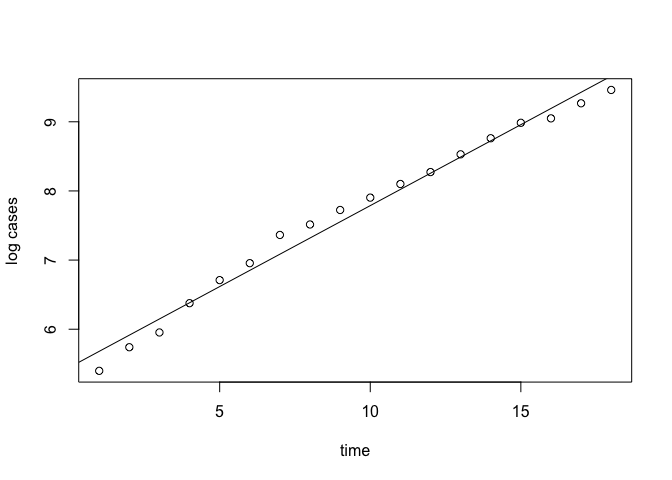
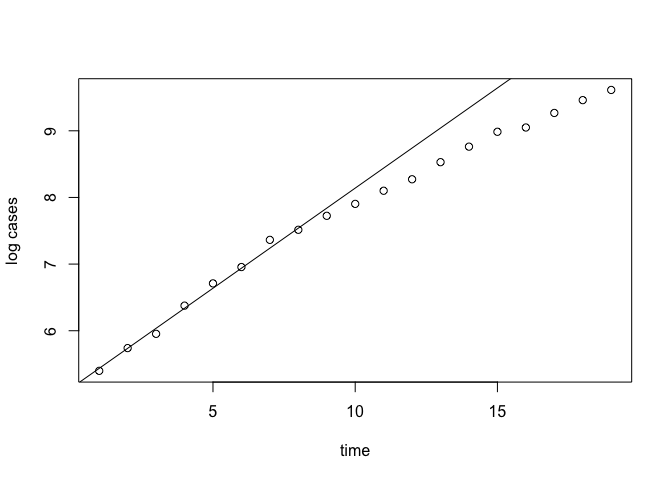
Add home page, navigation and theme

diff --git a/draft_analysis_Italy.md b/draft_analysis_Italy.md
@@ -6,9 +6,9 @@ PG
 ## The COVID dataset
 
 The present analysis used the dataset on COVID19 updated in
-<https://github.com/pcm-dpc/COVID-19>. We used a SEIR model to estimate
-the prediction of this epidemic in Italy. We estimated the R0 parameter
-by means of a simple linear regression ad in
+<https://github.com/pcm-dpc/COVID-19>. We used a SEIR model to predict
+the trend of the actual COVID19 epidemic in Italy. We estimated the R0
+parameter by means of a linear regression model as reported in
 <https://kingaa.github.io/clim-dis/parest/parest.html>
 
 ``` r
@@ -21,11 +21,12 @@ plot(dat_csv$data,dat_csv$totale_attualmente_positivi,ylab="Total Covid cases",x
 mean(diff(log(dat_csv$totale_attualmente_positivi)))
 ```
 
-    ## [1] 0.2389459
+    ## [1] 0.2341466
 
-The grow is exponential (rate of increase of about 25%). We estimate the
-R0 parameter by means of a linear model. R0 indicates how contagious an
-infectious disease is. It’s also referred to as the reproduction number.
+The plot shows an exponential gros. We estimate the R0 parameter by
+means of a linear model. R0 indicates how contagious an infectious
+disease is. It’s also referred to as “the reproduction number” of
+COVID19.
 
 \#estimate r0 \#see
 <https://kingaa.github.io/clim-dis/parest/parest.html> \#calculate r0
@@ -73,15 +74,12 @@ print(fp)
 
 where \(`Y_t`\) is the cumulative number of infected at the time t,
 while b is beta, the slope of the regression line.  
-We calculate the R0 values based on a different number of days before
-the last. The R0 shows a decreasing trend, but it is stable in the last
-12 days.
-
-The slope b indicate the rate of exponetial increase, used for the R0
-calculation.  
-R code:  
-fit1 \<-
-    lm(log(totale\_attualmente\_positivi)~t,data=dat\_csv)
+We calculate several R0 values, each one based on a different number of
+days before the last day. The R0 shows a decreasing trend in the last
+period. The slope b indicates the rate of exponetial increase.  
+However we considere the value of the last 10 days, because is more
+stable. R
+    code:
 
 ``` r
 head(dat_csv)
@@ -117,39 +115,32 @@ head(dat_csv)
     ## 6 6
 
 ``` r
-fit1 <- lm(log(totale_attualmente_positivi)~t,data=dat_csv)
+fit1 <- lm(log(totale_attualmente_positivi)~t,data=dat_csv[(days-10):days,])
 summary(fit1)
 ```
 
     ## 
     ## Call:
-    ## lm(formula = log(totale_attualmente_positivi) ~ t, data = dat_csv)
+    ## lm(formula = log(totale_attualmente_positivi) ~ t, data = dat_csv[(days - 
+    ##     10):days, ])
     ## 
     ## Residuals:
-    ##      Min       1Q   Median       3Q      Max 
-    ## -0.28204 -0.15480  0.03257  0.10196  0.27824 
+    ##       Min        1Q    Median        3Q       Max 
+    ## -0.047032 -0.028174 -0.009866  0.008880  0.095695 
     ## 
     ## Coefficients:
     ##             Estimate Std. Error t value Pr(>|t|)    
-    ## (Intercept) 5.446063   0.079891   68.17  < 2e-16 ***
-    ## t           0.234140   0.007381   31.72 7.12e-16 ***
+    ## (Intercept) 6.001345   0.064381   93.22 9.54e-15 ***
+    ## t           0.192552   0.004486   42.93 1.01e-11 ***
     ## ---
     ## Signif. codes:  0 '***' 0.001 '**' 0.01 '*' 0.05 '.' 0.1 ' ' 1
     ## 
-    ## Residual standard error: 0.1625 on 16 degrees of freedom
-    ## Multiple R-squared:  0.9844, Adjusted R-squared:  0.9834 
-    ## F-statistic:  1006 on 1 and 16 DF,  p-value: 7.115e-16
+    ## Residual standard error: 0.04705 on 9 degrees of freedom
+    ## Multiple R-squared:  0.9951, Adjusted R-squared:  0.9946 
+    ## F-statistic:  1843 on 1 and 9 DF,  p-value: 1.008e-11
 
-The prediction is good (\(R^2\) near 1). However the tendency is for a
-reduction of the
-slope.
+The exponential grow shows a good fits to data (\(R^2\) is near to 1).
 
-``` r
-plot(dat_csv$t,log(dat_csv$totale_attualmente_positivi),ylab="log cases",xlab="time")
-abline(coef(summary(fit1))[,1])
-```
-
-![](draft_analysis_Italy_files/figure-gfm/model%20plot-1.png)<!-- -->
 The slope coefficient estimated in the linear regression model can be
 used to estimate R0.
 
@@ -162,32 +153,32 @@ In the calculation we considered an incubation period of 14 days for two
 reasons: 1) the majority of cases is asymptomatic, contagiousness is
 greater than 5, maybe 14. A minority (who made the swab) will have a
 duration of about 5 days between the start of contagiousness and swab;
-2) 14 days is the worst scenario to consider.
+2) 14 days is the worst scenario to consider in this phase.
 
 ``` r
 slope <-coef(summary(fit1))[2,1]; slope
 ```
 
-    ## [1] 0.2341403
+    ## [1] 0.192552
 
 ``` r
 slope.se <- coef(summary(fit1))[2,2]; slope.se
 ```
 
-    ## [1] 0.007380637
+    ## [1] 0.004485606
 
 ``` r
 ### R0 estimates and 95% IC 
 R_0=slope*14+1;R_0
 ```
 
-    ## [1] 4.277964
+    ## [1] 3.695728
 
 ``` r
 (slope+c(-1,1)*1.96*slope.se)*14+1
 ```
 
-    ## [1] 4.075439 4.480489
+    ## [1] 3.572643 3.818813
 
 We want to make a short term forecast (14 days) with 3 scenario:  
 \-Scenario 1: 10 exposed people for each COVID-19 case and beta the same
@@ -196,7 +187,7 @@ for each COVID-19 case and beta reduced of 50% (-50% exposed people)
 -Scenario 3: 5 exposed people for each COVID-19 case and beta reduced of
 50% (-50% both exposed people and COVID19 contagious power)
 
-We fix a series of initial parameters: -I0: initial number of COVID-19
+We fix a series of initial parameters: - I0: initial number of COVID-19
 cases  
 \- R0: initial number of recovered  
 \- beta: the quantity connected to R0  
@@ -210,14 +201,14 @@ cases
 I0<-dat_csv$totale_attualmente_positivi[dim(dat_csv)[1]]; I0
 ```
 
-    ## [1] 12839
+    ## [1] 14955
 
 ``` r
 # initial number of recovered
 R0<-dat_csv$dimessi_guariti[dim(dat_csv)[1]]; R0
 ```
 
-    ## [1] 1258
+    ## [1] 1439
 
 ``` r
 #beta 
@@ -232,7 +223,10 @@ sigma0<-0.05
 mu0<-1/(82*365.25) # 1/lifespan
 ```
 
-We use the library(EpiDynamics)
+We use the library(EpiDynamics) and the function SEIR() to implement a
+SEIR model:
+
+<img src="http://www.public.asu.edu/~hnesse/classes/seireqn.png"/>
 
 ``` r
 library(EpiDynamics)
@@ -264,11 +258,15 @@ legend("topleft",c("first scenario","second scenario","third scenario"),lty=1,co
 ```
 
 ![](draft_analysis_Italy_files/figure-gfm/scenario%20plot-1.png)<!-- -->
-The 3 scenarios show how measures of restriction can help to reduce the
-number of infected.  
-At the end of the 2 weeks (2020-03-26) the number of infected is
-(4.391582110^{4}). In the next plot the cumulative number of
-infected.
+
+The 3 scenarios show different numbers. If we consider the second
+scenario, at the end of the 2 weeks (2020-03-27) the number of infected
+is (4.749915710^{4}).
+
+In the next plot the cumulative number of infected.  
+At the end of the 2 weeks (2020-03-27) the total number of COVID19 cases
+is expected to be
+(7.667257510^{4}).
 
 ``` r
 plot(date,c(dat_csv$totale_casi,(seir1$results$I[-1]+seir1$results$R[-1])*N),type="l",ylab="Cases",xlab="time",main="Cumulative Infected")
@@ -280,8 +278,41 @@ legend("topleft",c("first scenario","second scenario","third scenario"),lty=1,co
 
 ![](draft_analysis_Italy_files/figure-gfm/cumulative%20plot-1.png)<!-- -->
 
+We make an effort to estimate the effect of restriction measures took by
+the Italian Government (11 March 2020). After 14 days (2020-03-27) we
+have the current status in the second scenario:  
+\- I14=(4.749915710^{4});  
+\- R14=(3.259670710^{4});  
+\- S14=(5.734812110^{7});  
+\- E14=(1.203230610^{5});
+
+We reduce R0 to 1.10 and the number of exposed to the number of
+infected. We estimate the trend of the number infected, recovered and
+the total cases for other 14 days forward.
+
 ``` r
-PlotMods(seir2)
+I14=seir2$results$I[length(seir2$results$I)]
+R14=seir2$results$R[length(seir2$results$I)]
+S14=seir2$results$S[length(seir2$results$I)]
+E14=seir2$results$E[length(seir2$results$I)]
+forecast2<-14
+beta14<-1.1/14
+parameters <- c(mu = mu0, beta = beta14, sigma = sigma0, gamma = 1/duration)
+initials <- c(S = 1-I14*2-R14, E = I14, I = I14, R = R14)
+seir2_2 <- SEIR(pars = parameters, init = initials, time = 0:forecast2)
+
+date<-seq(as.Date("2020-02-24"),as.Date("2020-02-24")+forecast2+forecast-1+dim(dat_csv)[1],1)
+plot(date,c(dat_csv$totale_attualmente_positivi,seir2$results$I[-1]*N,seir2_2$results$I[-1]*N),type="l",ylab="Cases",xlab="time",ylim=c(0,((seir2_2$results$I+seir2_2$results$R[-1])*N)[forecast2]),col=2)
 ```
 
-![](draft_analysis_Italy_files/figure-gfm/cumulative%20plot-2.png)<!-- -->
+    ## Warning in seir2_2$results$I + seir2_2$results$R[-1]: longer object length
+    ## is not a multiple of shorter object length
+
+``` r
+lines(date,c(dat_csv$dimessi_guariti,seir2$results$R[-1]*N,seir2_2$results$R[-1]*N),col=3)
+lines(date,c(dat_csv$totale_casi,(seir2$results$I[-1]+seir2$results$R[-1])*N,c(seir2_2$results$I[-1]+seir2_2$results$R[-1])*N),col=1)
+
+legend("topleft",c("All cases","Infected","Recovered"),lty=1,col=1:3)
+```
+
+![](draft_analysis_Italy_files/figure-gfm/scenario%20plot2-1.png)<!-- -->

diff --git a/draft_analysis_Veneto.md b/draft_analysis_Veneto.md
@@ -1,7 +1,7 @@
 COVID19 - Forecast analysis
 ================
 PG
-3/11/2020
+3/13/2020
 
 fit1 \<- lm(log(totale\_attualmente\_positivi)~t,data=dat\_csv) The
 actual situation is
@@ -105,18 +105,18 @@ summary(fit1)
     ## 
     ## Residuals:
     ##      Min       1Q   Median       3Q      Max 
-    ## -0.52179 -0.13187 -0.00451  0.16701  0.43034 
+    ## -0.53486 -0.13087 -0.02048  0.16322  0.43111 
     ## 
     ## Coefficients:
     ##             Estimate Std. Error t value Pr(>|t|)    
-    ## (Intercept)  3.79641    0.12712   29.86 1.84e-15 ***
-    ## t            0.19111    0.01174   16.27 2.24e-11 ***
+    ## (Intercept)  3.81179    0.12073   31.57  < 2e-16 ***
+    ## t            0.18880    0.01059   17.83 1.94e-12 ***
     ## ---
     ## Signif. codes:  0 '***' 0.001 '**' 0.01 '*' 0.05 '.' 0.1 ' ' 1
     ## 
-    ## Residual standard error: 0.2585 on 16 degrees of freedom
-    ## Multiple R-squared:  0.943,  Adjusted R-squared:  0.9395 
-    ## F-statistic: 264.8 on 1 and 16 DF,  p-value: 2.24e-11
+    ## Residual standard error: 0.2528 on 17 degrees of freedom
+    ## Multiple R-squared:  0.9492, Adjusted R-squared:  0.9463 
+    ## F-statistic: 317.9 on 1 and 17 DF,  p-value: 1.936e-12
 
 Estimates
 
@@ -133,13 +133,13 @@ used to estimate R0, the number of
 slope <-coef(summary(fit1))[2,1]; slope
 ```
 
-    ## [1] 0.1911094
+    ## [1] 0.1888025
 
 ``` r
 slope.se <- coef(summary(fit1))[2,2]; slope.se
 ```
 
-    ## [1] 0.01174425
+    ## [1] 0.01058848
 
 ``` r
 ### R0 estimates and 95%IC 
@@ -147,13 +147,13 @@ slope.se <- coef(summary(fit1))[2,2]; slope.se
 R_0=slope*14+1;R_0
 ```
 
-    ## [1] 3.675532
+    ## [1] 3.643235
 
 ``` r
 (slope+c(-1,1)*1.96*slope.se)*14+1
 ```
 
-    ## [1] 3.353270 3.997794
+    ## [1] 3.352687 3.933783
 
 We want to make a short term forecast (14 days) with 3 scenario:  
 \-Scenario 1: 10 exposed people for each COVID-19 case and beta the same
@@ -169,7 +169,8 @@ cases
 \- beta: the quantity connected to R0  
 \- N: Italian population  
 \- duration: infection duration of COVID-19  
-\- sigma0: the coronavirus transmission rate (half of flu epidemic)  
+\- sigma0: the coronavirus transmission rate (0.05 is the half of flu
+epidemic)  
 \- mu0: the overall mortality rate
 
 ``` r
@@ -177,20 +178,20 @@ cases
 I0<-dat_csv$totale_attualmente_positivi[dim(dat_csv)[1]]; I0
 ```
 
-    ## [1] 1297
+    ## [1] 1453
 
 ``` r
 # initial number of recovered
 R0<-dat_csv$dimessi_guariti[dim(dat_csv)[1]]; R0
 ```
 
-    ## [1] 55
+    ## [1] 100
 
 ``` r
 #beta 
 beta0<-R_0/(14)
 # Veneto population
-N=4905000
+N=4905854
 # duration of COVID19 
 duration<-14
 #sigma0 is the coronavirus transmission rate fixed to 5%  (half of flu epidemic)
@@ -230,8 +231,8 @@ legend("topleft",c("first scenario","second scenario","third scenario"),lty=1,co
 
 The 3 scenarios show how measures of restriction can help to reduce the
 number of infected.  
-At the end of the 2 weeks (2020-03-26) the number of infected is
-estimated to be (4108.1318828).  
+At the end of the 2 weeks (2020-03-27) the number of infected is
+estimated to be (4582.9107148).  
 In the next plot the cumulative number of
 infected.
 
